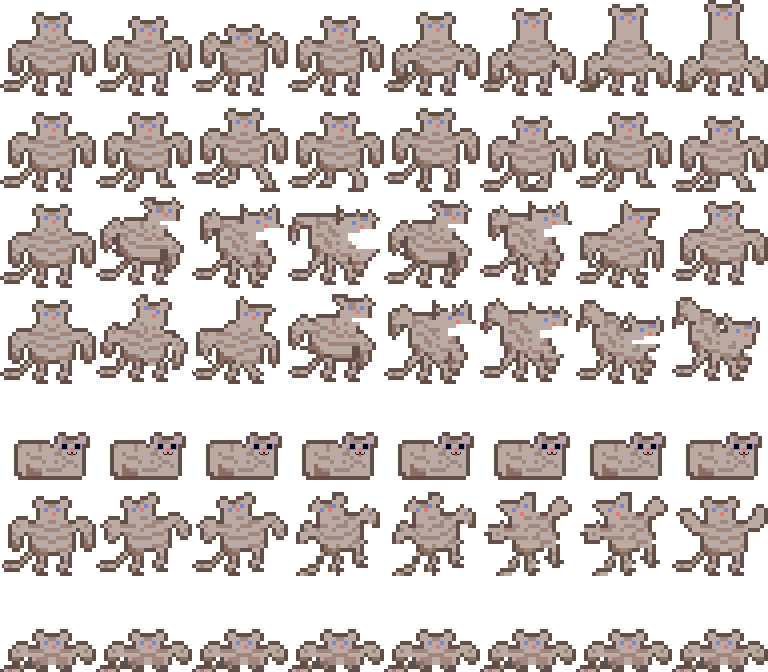
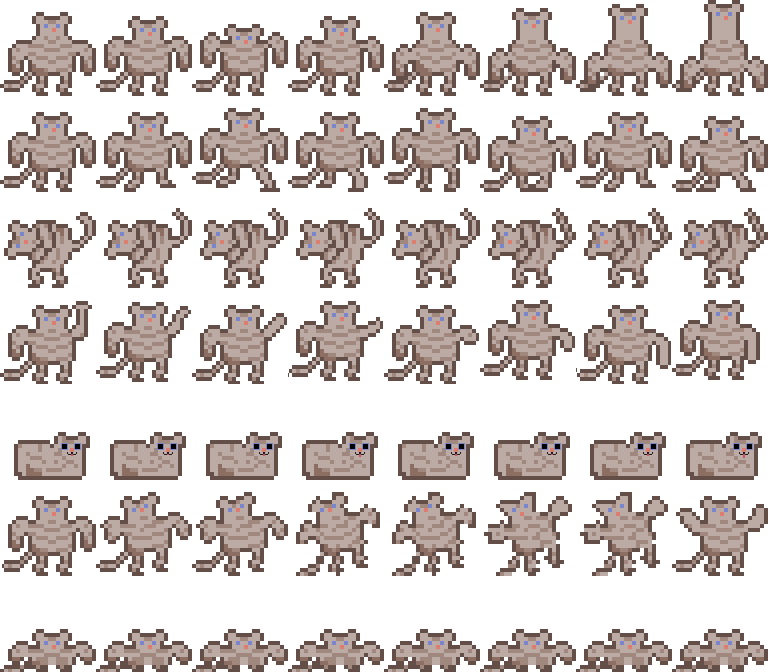
Change direction player 2 is facing at start

Changed region(s): [[0.0, 0.2812, 1.0, 0.5625]]

diff --git a/src/player.cpp b/src/player.cpp
@@ -1,9 +1,14 @@
 #include "player.hpp"
 
-Player::Player(std::string player_tileset, float player_width, float& player_height, float player_x, float player_y)
+Player::Player(std::string player_tileset, float player_width, float& player_height, float player_x, float player_y, int player_number)
 {
 	player.setOrigin(player_width / 2, player_height / 2);
 	player.setPosition(sf::Vector2f(player_x, player_y));
+
+	if (player_number == 2)
+	{
+		player.setScale(-1, 1);
+	}
 
 	// Load texture from file
 	if (!player_texture.loadFromFile(player_tileset))
@@ -47,7 +52,7 @@ void Player::movePlayer(int player_speed, bool& player_tile_collision, float& dt
 			velocity.y += gravity;
 		}
 
-		// If D is pressed move right
+		// If right key is pressed, move right
 		if (sf::Keyboard::isKeyPressed(move_right_key))
 		{
 			velocity.x = player_speed;
@@ -55,7 +60,7 @@ void Player::movePlayer(int player_speed, bool& player_tile_collision, float& dt
 			player.setScale(1, 1);
 		}
 
-		// If A is pressed move left
+		// If left key is pressed, move left
 		if (sf::Keyboard::isKeyPressed(move_left_key))
 		{
 			velocity.x = -player_speed;
@@ -122,7 +127,7 @@ void Player::attack(int& player_tile_row, int& weak_reload_timer, int& strong_re
 			if (sf::Keyboard::isKeyPressed(strong_attack_key))
 			{
 				strong_reload_timer += 100;
-				play_strong = 20;
+				play_strong = 30;
 				strong_attack = true;
 			}
 	}
@@ -134,6 +139,7 @@ void Player::attack(int& player_tile_row, int& weak_reload_timer, int& strong_re
 	else
 	{
 		strong_reload_timer--;
+		strong_attack = false;
 	}
 
 }

diff --git a/src/game.cpp b/src/game.cpp
@@ -77,7 +77,7 @@ void game(sf::RenderWindow& window, float& screen_width, float& screen_height)
 	sf::Keyboard::Key p1_weak_attack_key = sf::Keyboard::Key::F;
 	sf::Keyboard::Key p1_strong_attack_key = sf::Keyboard::Key::R;
 
-	Player player_1(bop_tileset, player1_height, player1_width, p1_x, p1_y);
+	Player player_1(bop_tileset, player1_height, player1_width, p1_x, p1_y, 1);
 
 	// Create player two
 	float p2_x = 800;
@@ -93,7 +93,7 @@ void game(sf::RenderWindow& window, float& screen_width, float& screen_height)
 	float hitbox2_y = 0;
 	std::string pob_tileset = "content/pob-tilesheet.png";
 
-	Player player_2(pob_tileset, player2_height, player2_width, p2_x, p2_y);
+	Player player_2(pob_tileset, player2_height, player2_width, p2_x, p2_y, 2);
 
 	// Player 2 movement keys
 	sf::Keyboard::Key p2_jump_key = sf::Keyboard::Key::P;

diff --git a/src/player.hpp b/src/player.hpp
@@ -7,7 +7,7 @@
 class Player : public sf::Sprite
 {
 public:
-	Player(std::string player_tileset, float player_width, float& player_height, float player_x, float player_y);
+	Player(std::string player_tileset, float player_width, float& player_height, float player_x, float player_y, int player_number);
 	void drawTo(sf::RenderWindow& window);
 	void movePlayer(int player_speed, bool& player_tile_collision, float& dt, int& player_tile_row, int& player_health, sf::Keyboard::Key move_left_key, sf::Keyboard::Key move_right_key, sf::Keyboard::Key jump_key, sf::Keyboard::Key crouch_key);
 	void collision(float screen_width, float player_width, float player_height, float& hitbox_x, float& hitbox_y);
